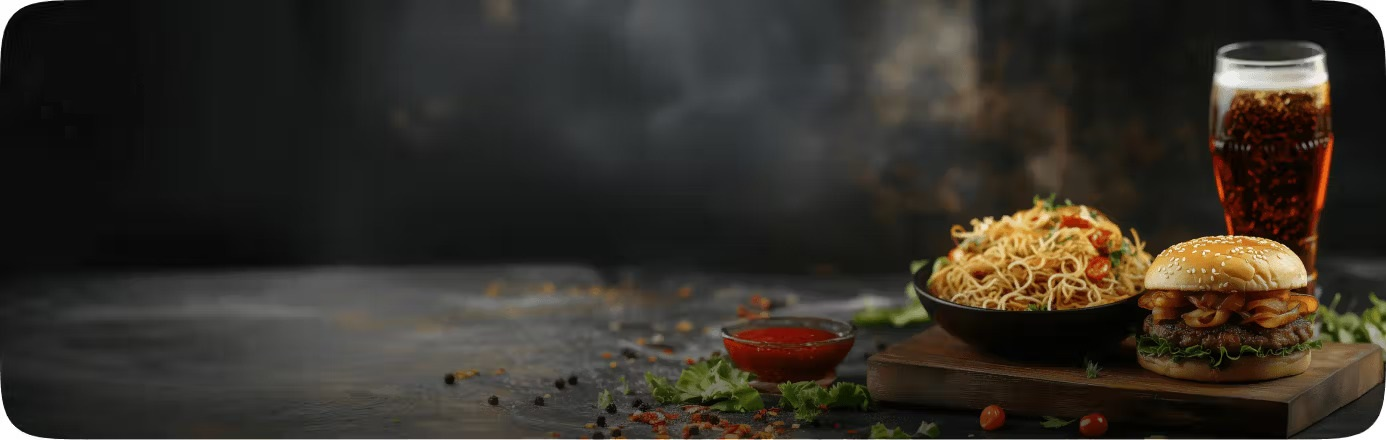
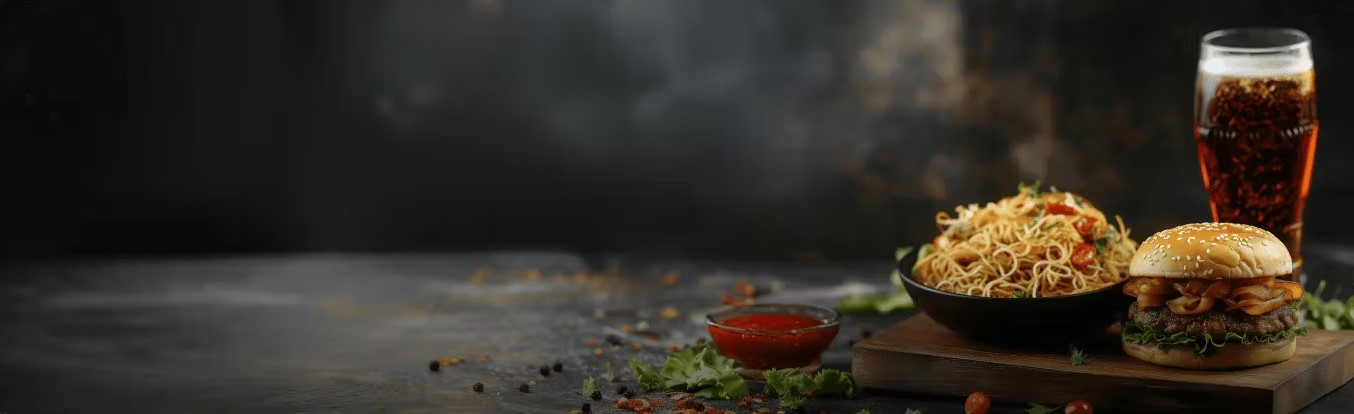
Give colors for dark mode

diff --git a/src/components/Footer/CompanyLinks.jsx b/src/components/Footer/CompanyLinks.jsx
@@ -66,14 +66,13 @@ const CompanyLinks = memo(({ isOpen, openCities }) => {
         {pathname !== "/" && <div
           onClick={() => openCities(!isOpen)}
           id="moreCities"
-          className={`flex gap-2.5 cursor-pointer border-2 border-gray-500 px-2 py-1 rounded items-center transition-all duration-300 linear hover:bg-gray-100 w-fit`}
-          style={{ borderColor: isOpen ? "black" : "#99a1af" }}
+          className={`group flex gap-2.5 cursor-pointer border-2 border-gray-500 px-2 py-1 rounded items-center transition-all duration-300 linear hover:bg-gray-200 w-fit ${isOpen ? "border-black dark:border-gray-200" : "border-[#99a1af] dark:border-gray-500"}`}
         >
-          <p className="font-normal text-lg md:text-sm text-gray-900 whitespace-nowrap">
+          <p className="font-normal dark:group-hover:text-black text-lg md:text-sm text-gray-900 whitespace-nowrap dark:text-gray-200">
             {remainingCities} cities
           </p>
           <i
-            className="fa-solid fa-caret-down text-gray-900 transition-all duration-300 linear"
+            className="fa-solid fa-caret-down dark:group-hover:text-black text-gray-900 transition-all duration-300 linear dark:text-gray-200"
             style={{
               transform: isOpen ? "rotate(-180deg)" : "",
             }}

diff --git a/src/components/Footer/AllCities.jsx b/src/components/Footer/AllCities.jsx
@@ -1,4 +1,4 @@
-import { NavLink } from "react-router-dom";
+import { Link } from "react-router-dom";
 import { selectAvailableCities } from "../../features/home/homeSlice";
 import { useSelector, useDispatch } from "react-redux";
 import { setCityPageLoading, setSecondaryCity } from "../../features/cityHome/cityHomeSlice";
@@ -40,7 +40,7 @@ const AllCities = memo(() => {
             const path = city.text.toLowerCase().replace(/\s/g, "-");
 
             return <li key={city.link} className="mb-2">
-              <NavLink to={`/cityPage/${city?.text}?mode=city`} onClick={() => clickHandler(city?.text, path)}>{city.text}</NavLink>
+              <Link className="dark:text-gray-200" to={`/cityPage/${city?.text}?mode=city`} onClick={() => clickHandler(city?.text, path)}>{city.text}</Link>
             </li>;
           })}
         </ul>

diff --git a/src/components/cityHome/CityHome.jsx b/src/components/cityHome/CityHome.jsx
@@ -59,7 +59,7 @@ const MainContent = () => {
 
       <div
         id="banner"
-        className="flex flex-col mt-0.5 md:mt-1 mb-4 md:mb-8 w-full bg-cover md:h-[45vh] h-[30vh]  bg-[url('/images/food-banner.jpg')] p-5 max-md:pl-2.5 max-md:bg-right"
+        className="flex flex-col mt-0.5 md:mt-1 mb-4 md:mb-8 w-full bg-cover md:h-[45vh] h-[30vh]  bg-[url('/images/food-banner.jpg')] p-5 max-md:pl-2.5 max-md:bg-right rounded-e-3xl md:rounded-4xl overflow-hidden"
       >
         <h1 className="mt-auto text-white text-2xl md:text-4xl max-md:leading-6 order-2">
           {banner_text}
